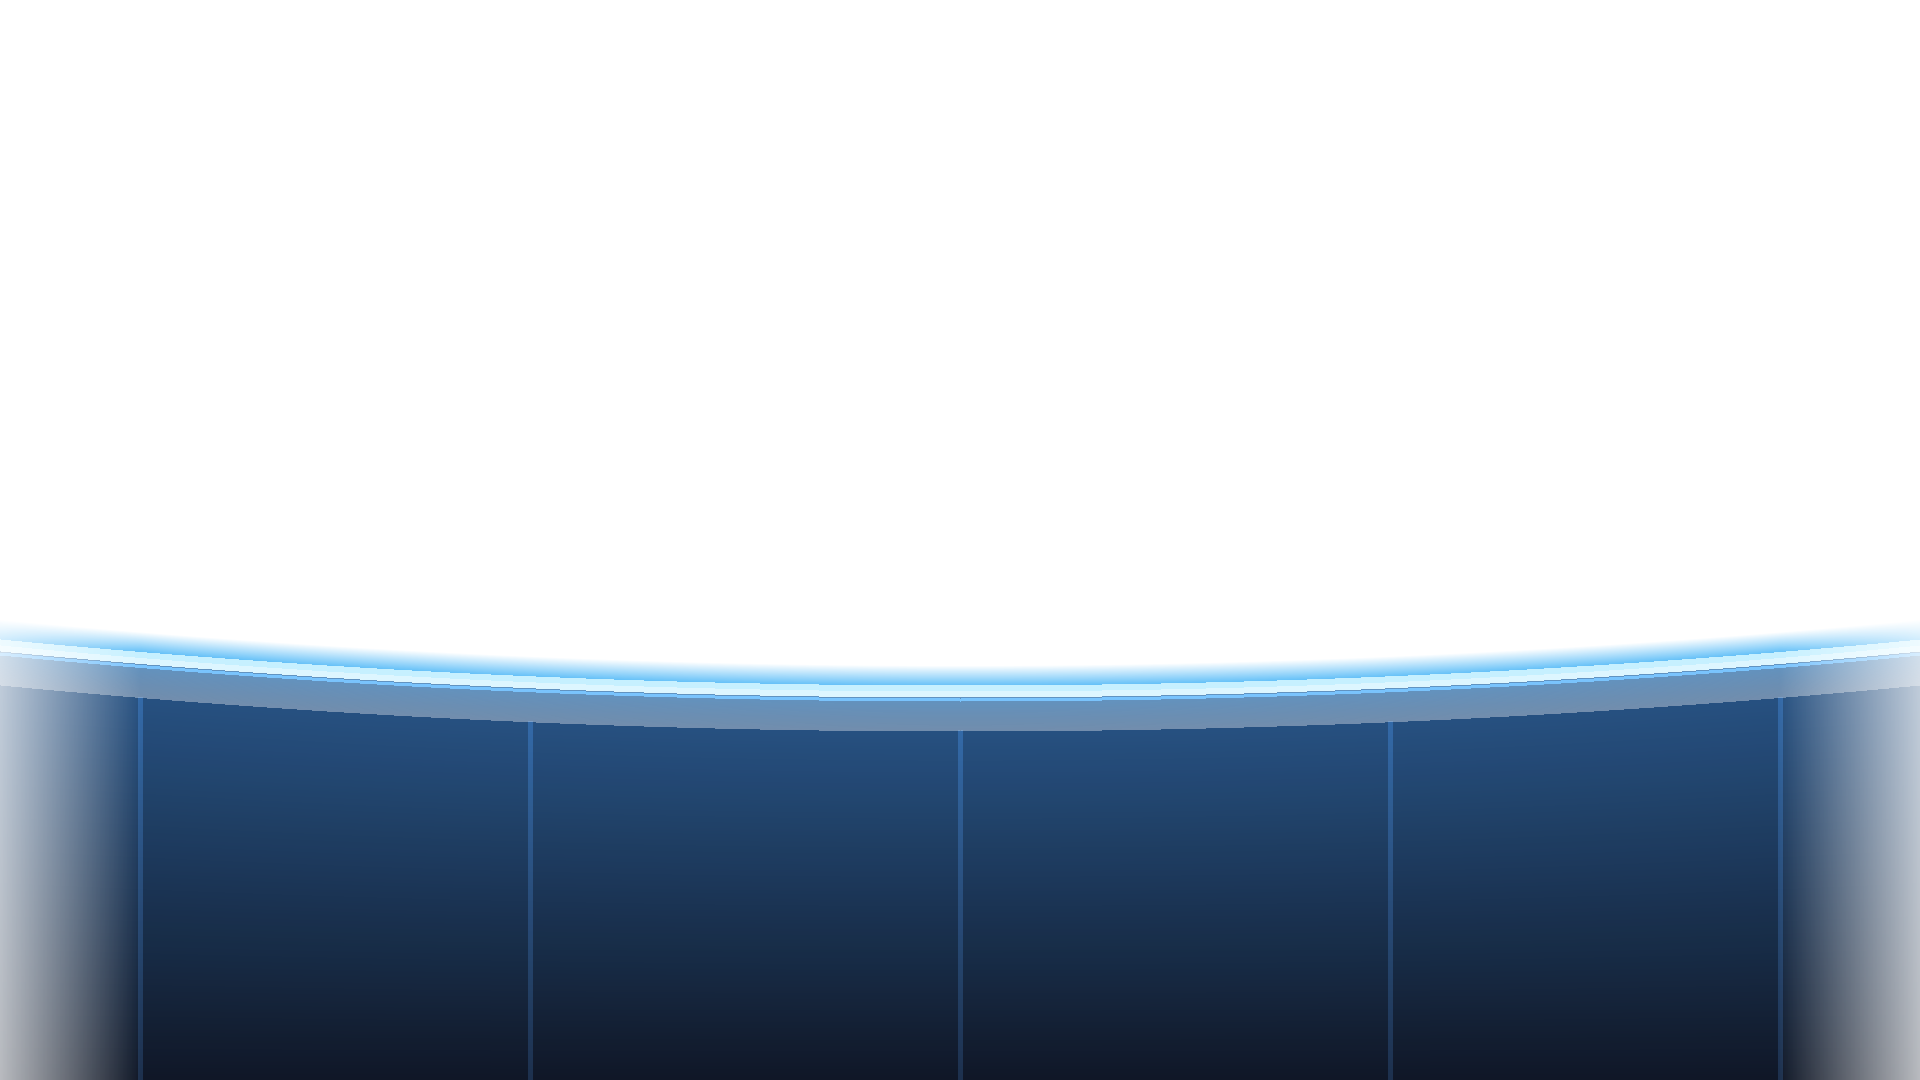
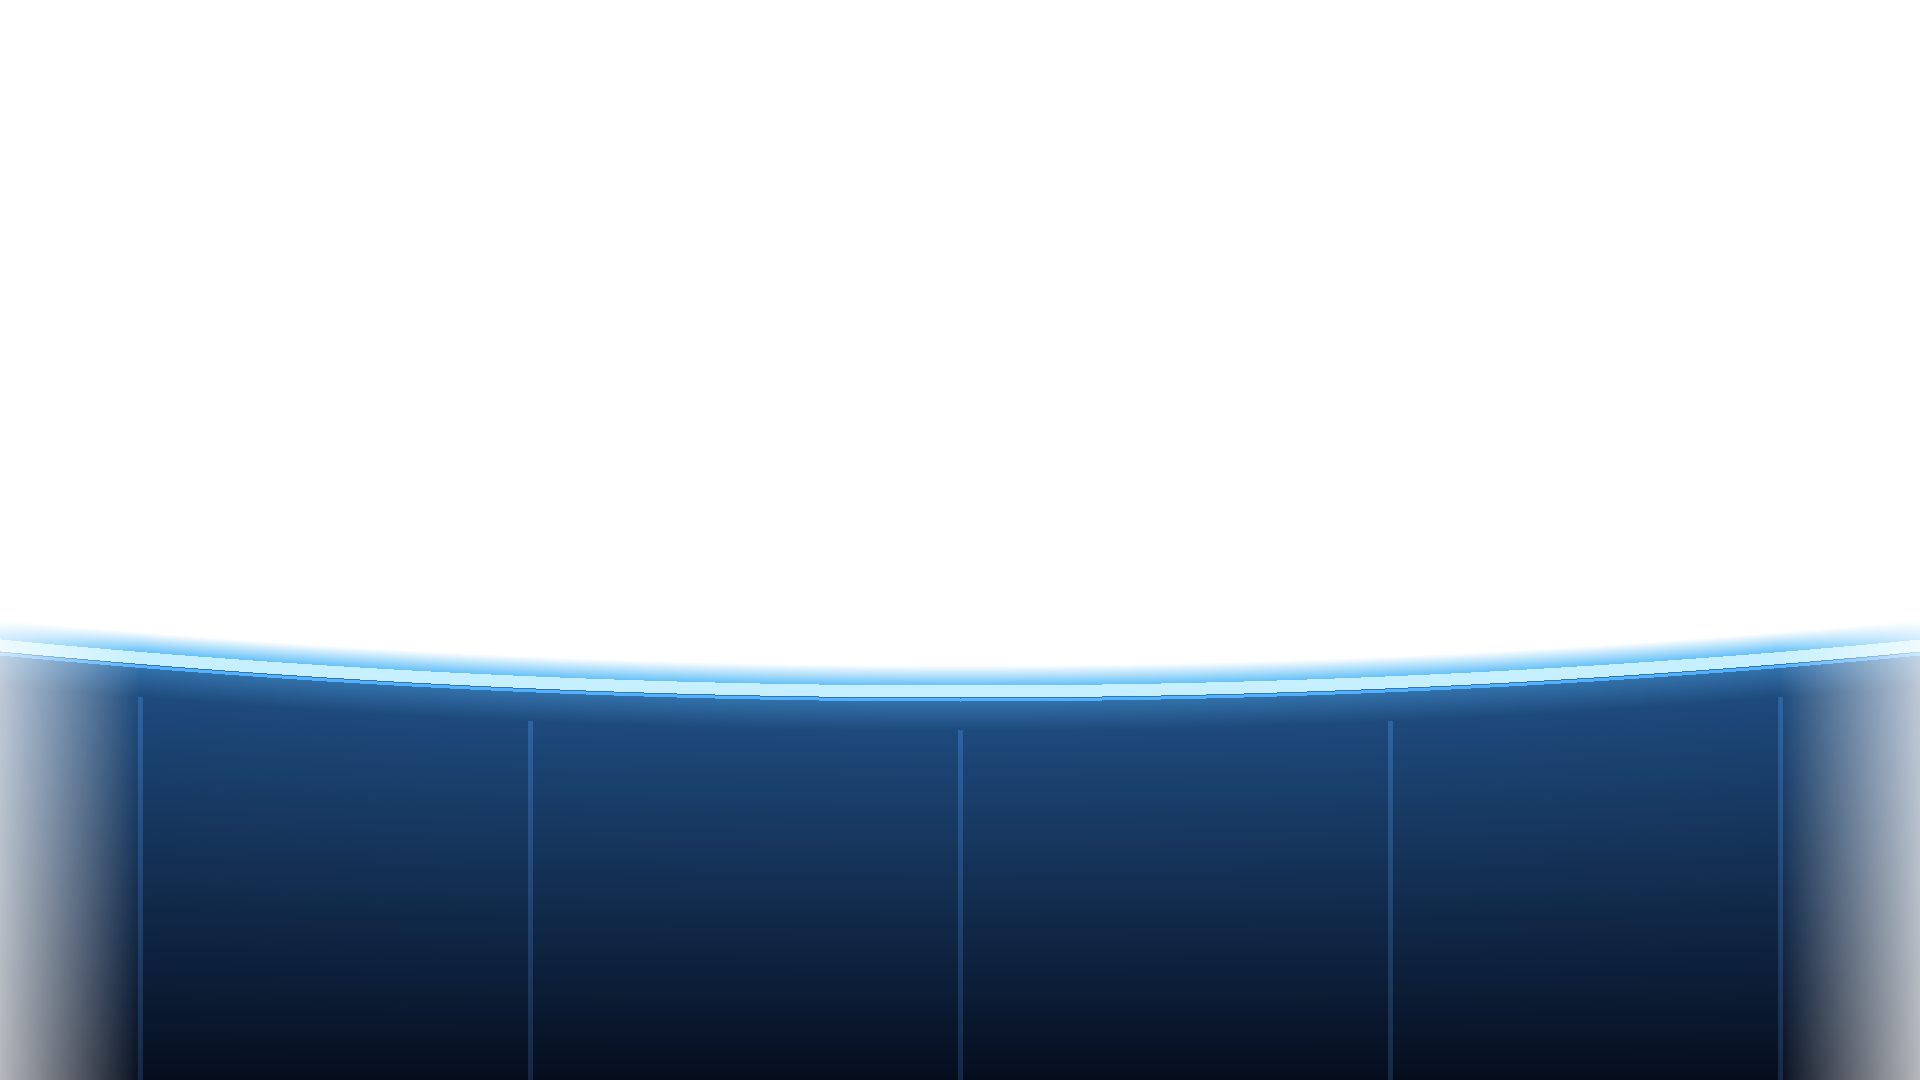
studio_desk: opacidade total abaixo do rim (mata o "fantasma" do apresentador)
A saia de studio_desk.png era 96% opaca (PANEL_A=245) e a "faixa de vidro" logo
abaixo do rim 63-78% opaca. O apresentador MuseTalk (chroma-keyed, terno ate a
borda do frame do idle) vazava 4-37% por baixo da bancada -> retangulo
translucido + a linha do corte reto do frame. Ja ocorria na producao atual
(idle 572x542 @ MUSETALK_PRESENTER_SCALE=0.70, ~43px de terno abaixo do rim);
NAO e regressao do idle 1024x1024 novo.

- assets/make_studio_desk.py: PANEL_A 245->255; linha fina do rim 150->255;
  faixa de vidro int(200-40*f)->255. Glow ACIMA do rim inalterado.
- assets/studio_desk.png: regerado (o script tambem salva em volumes/assets/,
  que e gitignored). Validado em bloco real de 133s: fantasma some, estudio
  visualmente identico (a bancada so cobre o piso do estudio, de tom quase igual).
- qa_frames.sh: helper de QA (frames + gif de loop de um bloco).
- .gitignore: previews/ (saida de calibracao, dezenas de MB por rodada) e
  backups locais timestamped (.env.bak* / *.bak.*).
- ROADMAP.md: notas de producao do apresentador MuseTalk v3.

Fora deste commit (mudou so localmente, .env e gitignored):
MUSETALK_PRESENTER_SCALE 0.70->0.39 (idle v3 e 1024x1024 vs 572x542);
RUNPOD_POD_ID / GPU_SERVER_URL -> pod ah7gg7t3lm2h7j; Redis gpu:active_pod_id
-> ah7gg7t3lm2h7j. Pendente: RUNPOD_API_KEY nova (a atual da 401 no pod novo).

Claude-Session: https://claude.ai/code/session_01JHxay9vNSWZ3rqp9jQDvgG

Changed region(s): [[0.0, 0.6111, 1.0, 0.7028]]

diff --git a/assets/make_studio_desk.py b/assets/make_studio_desk.py
@@ -25,7 +25,7 @@ RIM_RISE = int(sys.argv[2]) if len(sys.argv) > 2 else 46
 GLASS_TOP = (54, 118, 176)    # topo do tampo de vidro (logo abaixo do rim)
 FASCIA_TOP = (30, 74, 124)    # topo da saia frontal
 FASCIA_BOT = (6, 14, 30)      # base da saia frontal
-PANEL_A = 245                 # opacidade base do painel
+PANEL_A = 255                 # opacidade base do painel
 RIM = (198, 240, 255)         # núcleo da linha de luz do rim
 GLOW = (70, 180, 246)         # halo do rim
 ACCENT = (90, 190, 240)       # 2a linha fina de accent
@@ -54,14 +54,14 @@ for x in range(W):
         elif d < 6:
             px[x, y] = (*RIM, 255)                       # núcleo da luz
         elif d < 12:
-            px[x, y] = (*RIM, 150)                       # brilho fino
+            px[x, y] = (*RIM, 255)                       # brilho fino
         elif d < GLASS_BAND:
             # tampo de vidro translúcido pegando luz
             f = (d - 12) / (GLASS_BAND - 12)
             r = int(GLASS_TOP[0] + (FASCIA_TOP[0] - GLASS_TOP[0]) * f)
             g = int(GLASS_TOP[1] + (FASCIA_TOP[1] - GLASS_TOP[1]) * f)
             b = int(GLASS_TOP[2] + (FASCIA_TOP[2] - GLASS_TOP[2]) * f)
-            px[x, y] = (r, g, b, int(200 - 40 * f))
+            px[x, y] = (r, g, b, 255)
         else:
             # saia frontal — gradiente vertical
             f = min(1.0, (y - ry - GLASS_BAND) / (H - ry - GLASS_BAND))

diff --git a/ROADMAP.md b/ROADMAP.md
@@ -1,0 +1,49 @@
+# ROADMAP / notas de produção
+
+## Apresentador MuseTalk — idle v3 (2026-09-06)
+
+Idle novo (LivePortrait Run A, `--animation-region exp`) a partir de foto real
+do Fabio: terno escuro, colarinho aberto sem gravata, expressão neutra-séria,
+enquadrado 1024×1024 (o anterior era 572×542). No pod:
+`MT_IDLE_VIDEO=/workspace/LivePortrait/animations/idle_v3_20260906_1925/idle_v3_muted.mp4`,
+`MT_AVATAR_ID=avatar_idle_v3_srv`. No Contabo (`.env`, gitignored):
+`MUSETALK_PRESENTER_SCALE=0.39` (era 0.70), `RUNPOD_POD_ID`/`GPU_SERVER_URL` →
+pod `ah7gg7t3lm2h7j`.
+
+### Observações que viraram lição
+
+1. **O "fantasma da bancada" já existia em produção antes do v3.** A saia de
+   `studio_desk.png` era 96% opaca (`PANEL_A=245`) e a faixa de vidro logo abaixo
+   do rim 63–78%; o apresentador chroma-keyed (terno até a borda do frame do
+   idle) vazava por baixo. Com o idle 572×542 @ SCALE 0.70 eram ~43 px de terno
+   abaixo do rim — **não foi regressão do idle 1024²**. Corrigido tornando a
+   bancada 100% opaca do rim pra baixo.
+
+2. **Cache de blocos (`volumes/assets/musetalk/`) tem que ser limpo sempre que o
+   idle muda.** A pipeline remonta a composição a partir de blocos já
+   sintetizados (por id) sem re-sintetizar — troca de idle sem limpar o cache =
+   avatar antigo no ar silenciosamente. (Preservar assets fixos como
+   `promo-futureverse-beyond-v3.mp4`.)
+
+3. **`gpu:active_pod_id` (Redis) tem precedência sobre `.env RUNPOD_POD_ID`.**
+   `_runpod_pod_id()` = Redis `or` env. Só o failover (`_set_active_pod_id`,
+   `lib/gpu_client.py`) reescreve a chave, e sempre para um pod novo funcional.
+   Trocar de pod exige atualizar **os dois** (Redis + `.env`).
+
+### Candidatos a check automático (futuro "diretor de produção")
+
+- **`MT_AVATAR_ID` ativo tem que ter pasta em `results/v15/avatars/`.** Um
+  `fresh_prep=False` no log do `musetalk_worker` **sem** a pasta correspondente
+  indica que a variável não chegou ao worker (edição do `start_all.sh` não
+  propagou / worker não reiniciou).
+- Após trocar o idle: `volumes/assets/musetalk/` só deve conter assets fixos
+  conhecidos; qualquer hash `[0-9a-f]*.mp4` remanescente é cache velho.
+- `RUNPOD_API_KEY` do `.env` tem que autenticar no pod ativo (`podResume` não
+  pode dar 401) — senão todo bloco MuseTalk cai no fallback D-ID sem alarde.
+
+### Melhoria de arquitetura pendente
+
+**Alternância de âncoras (feminina / Fabio por período)** exige `MT_AVATAR_ID`
+**por requisição** (parâmetro no `/lipsync` ou `/generate`), não fixo no boot do
+worker. Hoje trocar de âncora = editar `start_all.sh` + `stop_all/start_all` +
+prep de 2–4 min. Bloqueia qualquer grade com mais de um apresentador.
